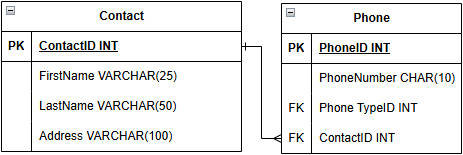
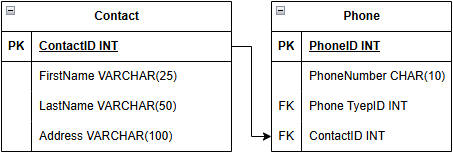
add notes of chapter03 and update related pictures

diff --git a/notes/Ch3_创建实体-关系图.md b/notes/Ch3_创建实体-关系图.md
@@ -1,0 +1,125 @@
+# 创建实体-关系图
+
+目标：
+
+- 创建一个ERD，其中包括在数据库规范化过程结束时确定的表、列和关系；
+- 在ERD中包含有关数据库组件的适当元数据，包括主键、外键、数据类型和各个字段的可空性。
+
+## 使用 ERD
+
+使用 ERD 的主要目的：确保数据库结构正确。
+创建ERD（数据库结构的可视化表示）的优点：
+
+- 有助于确定建议的结构可能不适用的地方。
+- 允许团队查看数据库的结构，有助于每个团队成员快速确定哪些列在哪个表中以及表之间的关系。
+- 提供了数据结构的单一、精简表示，有助于更快编写SQL语句，尤其是当SQL语句引用两个或多个表时。
+
+常用工具：
+
+- Draw.io: 基于 Chrome 的免费工具。
+- ERDPlus: 专门用于绘制 ERD 和类似的数据库结构的免费工具。[ERDPlus](https://erdplus.com/trial)
+
+## ERD 组件
+
+一个设计良好的ERD应包括：
+
+- 数据库所需的表（实体），包括每个表的名称；
+- 每个表中的所有列；
+- 关于每个列的元数据，包括列的名称、数据类型及是否为空；
+- 所有主键列和外键列的标识；
+- 每个表是如何相互关联的。
+
+可以访问样本数据集来确定 ERD 应该包括哪些列，以及每个列的合适数据类型。
+在构建 ERD 时，还需要定义用于对象的命名约定。确保所有对象都是用这些命名约定。
+命名规则：单数名词、复数名词。表名一般使用单数名词。
+
+### 创建表
+
+表用矩形表示。
+表的三部分：名称、主键列、其他列
+
+![带主键的 Contact 表](../images/ch03/Contact_Table_with_Primary_Key.jpg)
+
+### 添加列
+
+![带主键的 Contact 表](../images/ch03/Contact_Table.jpg)
+
+为列名设置数据类型和空间大小
+
+- ContactID：一个必需的代理键，数据类型为整数（INT）
+- FirstName 和 LastName：和人名相关的列都是必需的，数据类型为字符串。因长度不固定，数据类型设置为 VARCHAR。FirstName 设为 25，LastName 设为 50。
+- Address：一个可选列。数据类型为 VARCHAR，长度为 100。
+
+### 添加键标识符
+
+指示主键和外键：通过在表中适当列名称的左侧分别添加 PK 和 FK。为了使主键或其他必须保持唯一的列突出，对这些列的名称使用下划线。
+
+![带主键的 Contact 表](../images/ch03/Contact_Table_with_Primary_Key.jpg)
+
+将 ContactID 设置为主键
+
+### 加入其他表
+
+PhoneType 用于存储电话类型的名称，其数据类型是字符类型。
+
+![带主键的 PhoneType 表](../images/ch03/Phone_Type.jpg)
+
+Phone 用于存储电话号码。
+
+电话号码被视为字符串而不是数字，因为：
+
+- 不会对电话号码进行数学运算，所以不需要将其存储为数字；
+- 电话号码可以包含非数字字符，如字母或破折号
+
+![带主键的 Phone 表](../images/ch03/Phone.jpg)
+
+### 显示关系
+
+表示两个表之间最简单的方法：用一个带有方向的箭头从关系的一侧指向关系的多侧。本例中，每个联系人可以有多个电话号码，但每个电话号码只属于一个人。箭头从Contact表指向Phone表。
+
+![联系人与电话之间的关系](../images/ch03/relationships_between_contact_and_phone.jpg)
+
+在关系的“多”端添加了一个鱼尾纹标记：表示Contact表的任何记录都可以与Phone表中的“多”个记录相关联（一个联系人可以有多个电话类型）。
+
+在Contact侧有一个小垂直线：表示Phone表中的每条记录必须只有一个相关的记录在Contact表中。（每个联系人至少有一个电话号码）。
+
+![更新关系符号](../images/ch03/updated_relationships_between_contact_and_phone.jpg)
+
+![Phone表与PhoneType表的关系](../images/ch03/relationships_between_phone_and_phoneType.jpg)
+
+ERD 关系符号
+
+|                          样式                          |      关系      |
+| :-----------------------------------------------------: | :------------: |
+|      ![一对一](../images/ch03/styles/one_to_one.jpg)      |     一对一     |
+|    ![强制单一](../images/ch03/styles/force_to_one.jpg)    |    强制单一    |
+| ![强制一对一](../images/ch03/styles/force_one_to_one.jpg) |   强制一对一   |
+|           ![一](../images/ch03/styles/one.jpg)           |       一       |
+|     ![零对一](../images/ch03/styles/zero_to_one.jpg)     |     零对一     |
+| ![零对多（可选）](../images/ch03/styles/zero_to_more.jpg) | 零对多（可选） |
+|     ![一对多](../images/ch03/styles/one_to_more.jpg)     |     一对多     |
+|           ![多](../images/ch03/styles/more.jpg)           |       多       |
+
+## 数据库的ERD
+
+**注意这个视图如何允许在单个视图中同时查看所有表的所有列，并标识表之间的连接关系。**
+
+![数据库的完整ERD](../images/ch03/Completed_ERD.jpg)
+
+## 多对多关系
+
+在开始使用未规范化的一组数据时，通常会在将数据规范化为所需表的过程中识别出许多表之间的多对多关系。在规范化数据库（至少2NF）中，所有关系都是一对一关系或一对多关系。
+
+**一个多对多的关系必须包括三个单独的表：两个原始表和一个桥表。多数情况下，原始表的主键列用于创建桥表的主键，此时有多个列既是外键又是主键的一部分。**
+
+![学生和班级之间的多对多关系](../images/ch03/relationships_between_student_and_class.jpg)
+
+## 小结
+
+- 实体-关系图是关系数据库设计的重要工具，他们提供了对数据库结构的可视化。
+- 任何 ERD 都应提供识别数据库结构所需的基本信息：
+  - 表的名称
+  - 列的名称
+  - 作为键的列
+  - 表之间的关系
+- [ERD 的更多信息及其他符号和布局选项的示例](https://www.lucidchart.com/pages/er-diagrams)
